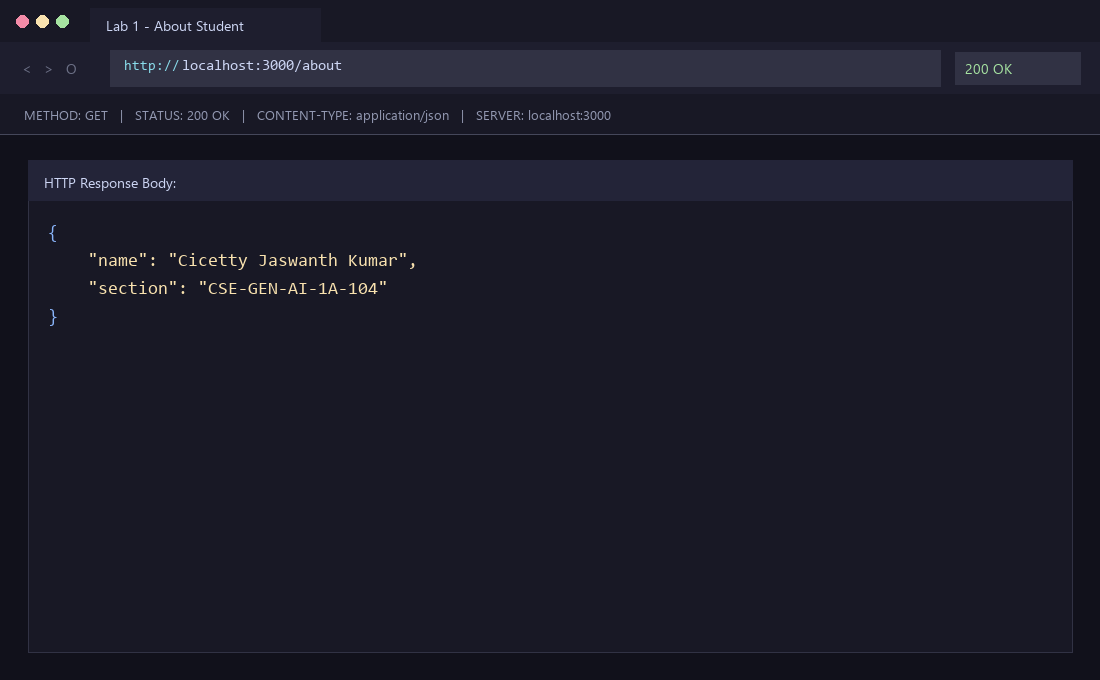
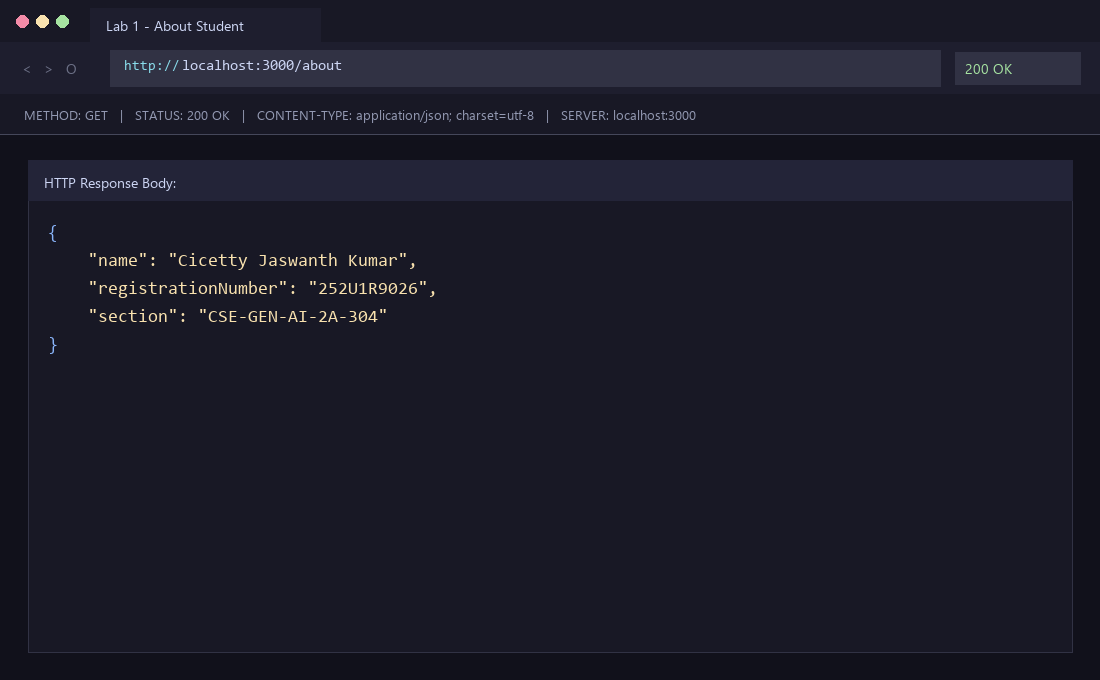
chore: update section to CSE-GEN-AI-2A-304

diff --git a/lab-01/server.js b/lab-01/server.js
@@ -4,7 +4,7 @@
  * Course: Backend Development Fundamentals - Year II Term II
  * Student Name: Cicetty Jaswanth Kumar
  * Registration Number: 252U1R9026
- * Section: CSE-GEN-AI-1A-104
+ * Section: CSE-GEN-AI-2A-304
  * Faculty: Joel Prashanth D
  * ============================================================================
  *
@@ -50,7 +50,7 @@ app.get("/about", (req, res) => {
   res.status(200).json({
     name: "Cicetty Jaswanth Kumar",
     registrationNumber: "252U1R9026",
-    section: "CSE-GEN-AI-1A-104"
+    section: "CSE-GEN-AI-2A-304"
   });
 });
 

diff --git a/lab-01/server-http.js b/lab-01/server-http.js
@@ -3,7 +3,7 @@
  * Lab 1: Node.js and Express Server - Part 1: Built-in HTTP Server
  * Student Name: Cicetty Jaswanth Kumar
  * Registration Number: 252U1R9026
- * Section: CSE-GEN-AI-1A-104
+ * Section: CSE-GEN-AI-2A-304
  * Faculty: Joel Prashanth D
  * ============================================================================
  */

diff --git a/README.md b/README.md
@@ -3,7 +3,7 @@
 **Course:** Backend Development Fundamentals — Year II Term II  
 **Student Name:** Cicetty Jaswanth Kumar  
 **Registration Number:** 252U1R9026  
-**Section:** CSE-GEN-AI-1A-104  
+**Section:** CSE-GEN-AI-2A-304  
 **Institution:** Aurora  
 **Faculty:** Joel Prashanth D  
 

diff --git a/lab-01/README.md b/lab-01/README.md
@@ -4,7 +4,7 @@
 
 - **Name:** Cicetty Jaswanth Kumar
 - **Registration Number:** 252U1R9026
-- **Section:** CSE-GEN-AI-1A-104
+- **Section:** CSE-GEN-AI-2A-304
 - **Course:** Backend Development Fundamentals
 - **Lab Number:** 01
 
